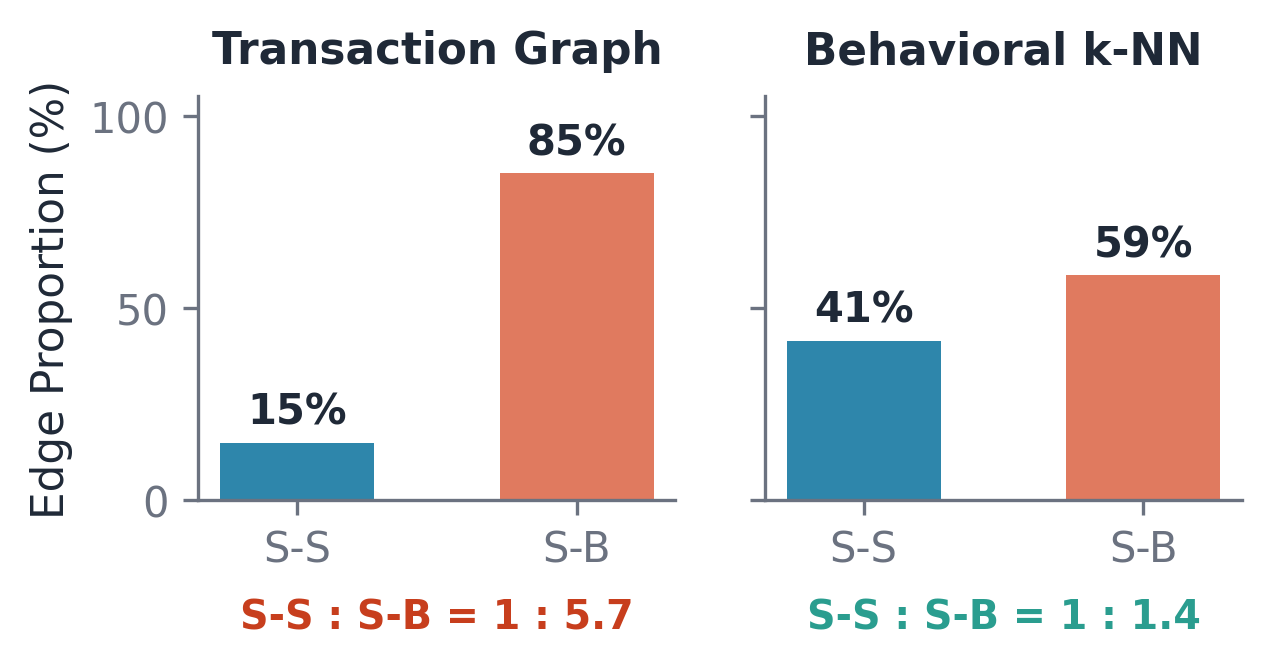
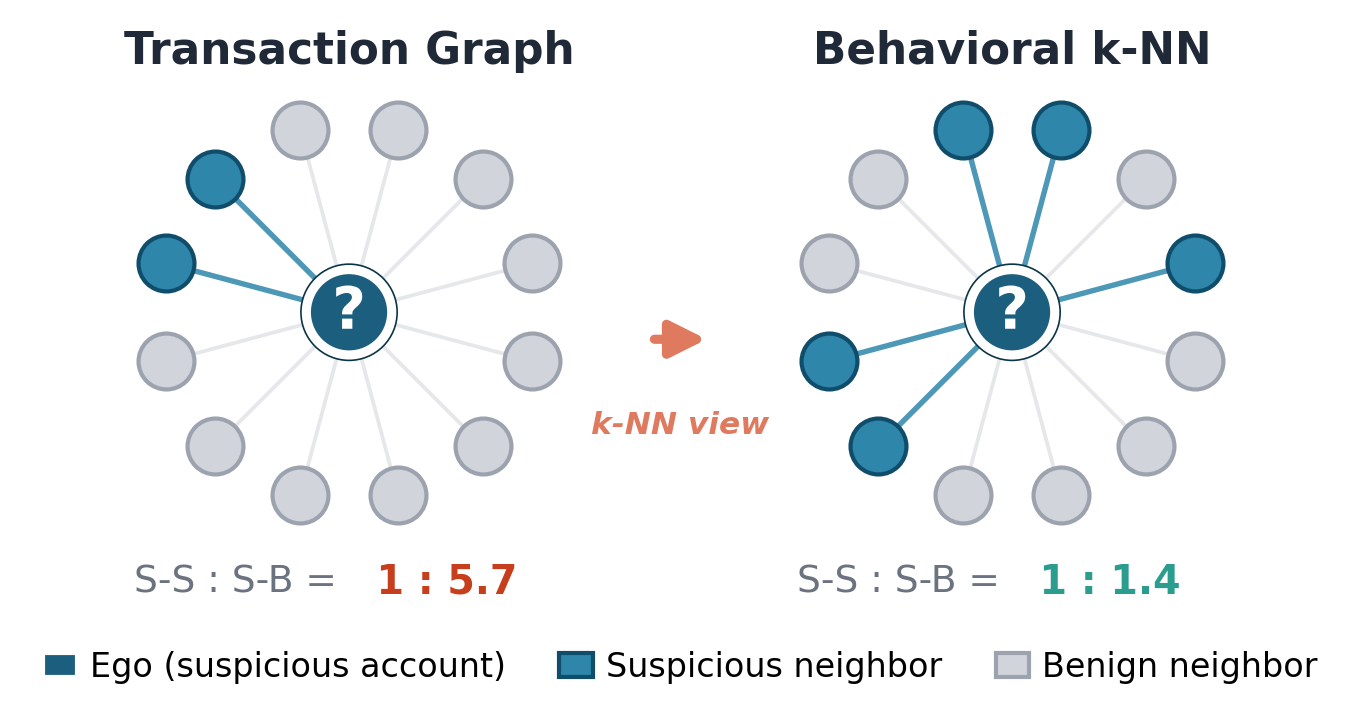
Figure 1: refined ego-network design (Variant C, modernized)
Switch from bar chart to ego-network visualization (most pedagogical for
homophily). Refinements over original Variant C:
- Center 'ego' suspicious node: dark teal (#1B5E7D) with white halo, '?'
  question mark inside (suggests classification target)
- Suspicious neighbor: medium teal (#2E86AB), darker outline
- Benign neighbor: neutral light gray (#D1D5DB), faded outline
- Signal edge (S-S): bold teal, 1.3pt — visually prominent
- Noise edge (S-B): very light gray, 0.9pt — visually faded
- Removed letter labels inside nodes (color + legend instead)
- Legend at bottom (3 items, single row)
- Refined transformation arrow (coral #E07A5F) with 'k-NN view' label
- Color-coded ratio: red 1:5.7 (problem), green 1:1.4 (restored)
- Caption updated for ego-network framing (S-S/S-B explained inline)

Changed region(s): [[0.0, 0.0299, 0.9819, 0.8383], [0.0307, 0.8982, 0.9819, 0.9581]]

diff --git a/visualize/gen_paper_figures.py b/visualize/gen_paper_figures.py
@@ -272,60 +272,116 @@ def fig5_setting_comparison():
 
 
 def fig_intro_homophily():
-    """Intro Figure: S-S/S-B ratio comparison — Transaction vs Behavioral k-NN.
+    """Intro Figure: ego-network homophily contrast (refined Variant C).
 
-    Side-by-side bar charts (original layout) with refined paper-friendly palette.
-    Self-explanatory for readers unfamiliar with homophily.
+    A central suspicious account (ego) and its 12 neighbors are visualized
+    for two graph types. Color encodes neighbor class (suspicious vs benign).
+    Edge opacity reflects signal strength (S-S edges = strong, S-B = faded).
     """
-    categories = ['S-S', 'S-B']
-    trans_vals = [257384, 1468962]   # Transaction graph (S-S, S-B)
-    knn_vals   = [61987,  87555]     # Behavioral k-NN
+    import matplotlib.patches as mpatches
+    import matplotlib.patheffects as pe
 
-    trans_pct = [v / sum(trans_vals) * 100 for v in trans_vals]
-    knn_pct   = [v / sum(knn_vals)   * 100 for v in knn_vals]
+    # Refined paper-friendly palette
+    C_EGO       = '#1B5E7D'  # dark teal: ego (suspicious) node
+    C_SUSP      = '#2E86AB'  # medium teal: suspicious neighbor (signal)
+    C_BENIGN    = '#D1D5DB'  # neutral light gray: benign neighbor (noise)
+    C_EDGE_S    = '#2E86AB'  # signal edge: medium teal (visible)
+    C_EDGE_B    = '#E5E7EB'  # noise edge: very light gray (faded)
+    C_TEXT      = '#1F2937'
+    C_SUB       = '#6B7280'
+    C_HIGHL     = '#C73E1D'  # warm red: low-homophily state
+    C_GREEN     = '#2A9D8F'  # teal-green: restored state
+    C_ARROW     = '#E07A5F'  # warm coral: transformation arrow
 
-    # Refined palette: dark teal for S-S (signal), warm orange-red for S-B (noise)
-    C_SS    = '#2E86AB'   # teal-blue
-    C_SB    = '#E07A5F'   # warm coral (matches S-B = "spread to benign", problematic)
-    C_TEXT  = '#1F2937'
-    C_SUB   = '#6B7280'
-    C_HIGHL = '#C73E1D'
-    C_GREEN = '#2A9D8F'
+    np.random.seed(7)
 
-    fig, axes = plt.subplots(1, 2, figsize=(4.4, 2.6), sharey=True)
-    bar_width = 0.55
+    fig, axes = plt.subplots(1, 2, figsize=(4.6, 2.4))
+    fig.patch.set_facecolor('white')
 
-    for ax, pcts, title, ratio, rcolor in [
-        (axes[0], trans_pct, 'Transaction Graph', '1 : 5.7', C_HIGHL),
-        (axes[1], knn_pct,   'Behavioral k-NN',   '1 : 1.4', C_GREEN),
-    ]:
-        bars = ax.bar(categories, pcts, color=[C_SS, C_SB], width=bar_width,
-                      edgecolor='white', linewidth=0)
-        ax.set_title(title, fontsize=10.5, fontweight='bold', pad=8, color=C_TEXT)
-        ax.set_ylim(0, 105)
-        ax.tick_params(axis='both', labelsize=10, colors=C_SUB)
+    n_neighbors = 12
+    radius = 1.05
 
-        for bar, pct in zip(bars, pcts):
-            ax.text(bar.get_x() + bar.get_width()/2, bar.get_height() + 2.5,
-                    f'{pct:.0f}%', ha='center', va='bottom',
-                    fontsize=10, fontweight='bold', color=C_TEXT)
+    panels = [
+        (axes[0], 0.15, 'Transaction Graph', '1 : 5.7', C_HIGHL),
+        (axes[1], 0.41, 'Behavioral k-NN',   '1 : 1.4', C_GREEN),
+    ]
 
-        # Ratio annotation (color-coded by state)
-        ax.text(0.5, -0.32, f'S-S : S-B = {ratio}', transform=ax.transAxes,
-                ha='center', fontsize=9.5, fontweight='bold', color=rcolor)
+    for ax, ss_ratio, title, ratio, rcolor in panels:
+        ax.set_facecolor('white')
+        ax.set_xlim(-1.55, 1.55)
+        ax.set_ylim(-1.65, 1.55)
+        ax.set_aspect('equal')
+        ax.axis('off')
 
-        # Cleaner spines
-        ax.spines['top'].set_visible(False)
-        ax.spines['right'].set_visible(False)
-        ax.spines['left'].set_color(C_SUB)
-        ax.spines['bottom'].set_color(C_SUB)
+        n_susp = round(n_neighbors * ss_ratio)
+        is_susp = [True]*n_susp + [False]*(n_neighbors - n_susp)
+        np.random.shuffle(is_susp)
 
-    axes[0].set_ylabel('Edge Proportion (%)', fontsize=10.5, color=C_TEXT)
+        # Slight angle offset so neighbors aren't on cardinal axes
+        angles = np.linspace(0, 2*np.pi, n_neighbors, endpoint=False) + np.pi/12
 
-    plt.tight_layout(w_pad=1.5)
+        # Draw edges first (lower z-order)
+        for angle, susp in zip(angles, is_susp):
+            x, y = radius * np.cos(angle), radius * np.sin(angle)
+            if susp:
+                ax.plot([0, x], [0, y], color=C_EDGE_S,
+                        linewidth=1.3, alpha=0.85, zorder=1, solid_capstyle='round')
+            else:
+                ax.plot([0, x], [0, y], color=C_EDGE_B,
+                        linewidth=0.9, alpha=1.0, zorder=1, solid_capstyle='round')
+
+        # Draw neighbor nodes
+        for angle, susp in zip(angles, is_susp):
+            x, y = radius * np.cos(angle), radius * np.sin(angle)
+            color = C_SUSP if susp else C_BENIGN
+            edge_color = '#0F4D6B' if susp else '#9CA3AF'
+            ax.scatter(x, y, s=180, c=color, edgecolors=edge_color,
+                       linewidths=1.0, zorder=4)
+
+        # Draw ego (center) — slightly larger, distinct dark teal with ring
+        ax.scatter(0, 0, s=420, c=C_EGO, edgecolors='white', linewidths=2.2, zorder=5,
+                   path_effects=[pe.withStroke(linewidth=3.0, foreground='#0A3548')])
+        ax.text(0, 0, '?', ha='center', va='center', fontsize=14, fontweight='bold',
+                color='white', zorder=6,
+                path_effects=[pe.withStroke(linewidth=1.0, foreground=C_EGO)])
+
+        # Title (top)
+        ax.text(0, 1.45, title, ha='center', va='center',
+                fontsize=10.5, fontweight='bold', color=C_TEXT)
+
+        # Ratio annotation (bottom, color-coded)
+        ax.text(0, -1.50, f'S-S : S-B = ', ha='right', va='center',
+                fontsize=9, color=C_SUB)
+        ax.text(0, -1.50, f'  {ratio}', ha='left', va='center',
+                fontsize=9.5, fontweight='bold', color=rcolor)
+
+    # Transformation arrow between panels
+    fig.patches.append(mpatches.FancyArrowPatch(
+        (0.475, 0.50), (0.525, 0.50), transform=fig.transFigure,
+        arrowstyle='-|>', mutation_scale=18, color=C_ARROW, linewidth=2.2,
+        zorder=10))
+    fig.text(0.5, 0.40, 'k-NN view',
+             ha='center', va='top', fontsize=7.5, color=C_ARROW,
+             fontstyle='italic', fontweight='bold')
+
+    # Compact legend at bottom
+    legend_elements = [
+        mpatches.Patch(facecolor=C_EGO,    edgecolor='white',
+                       label='Ego (suspicious account)'),
+        mpatches.Patch(facecolor=C_SUSP,   edgecolor='#0F4D6B',
+                       label='Suspicious neighbor'),
+        mpatches.Patch(facecolor=C_BENIGN, edgecolor='#9CA3AF',
+                       label='Benign neighbor'),
+    ]
+    fig.legend(handles=legend_elements, loc='lower center',
+               bbox_to_anchor=(0.5, -0.02), ncol=3, frameon=False,
+               fontsize=8, handlelength=1.0, handletextpad=0.4,
+               columnspacing=1.6)
+
+    plt.tight_layout(rect=[0, 0.05, 1, 1])
     path = os.path.join(OUT_DIR, 'fig_intro_homophily.pdf')
-    plt.savefig(path, bbox_inches='tight', dpi=300)
-    plt.savefig(path.replace('.pdf', '.png'), bbox_inches='tight', dpi=300)
+    plt.savefig(path, bbox_inches='tight', dpi=300, facecolor='white')
+    plt.savefig(path.replace('.pdf', '.png'), bbox_inches='tight', dpi=300, facecolor='white')
     plt.close()
     print(f'Saved: {path}')
 

diff --git a/_paper/main.tex b/_paper/main.tex
@@ -92,7 +92,7 @@ KFTC HOFINET, AMLworld, AMLNet 세 데이터셋에서의 실험을 통해 행동
 \begin{figure}[t!]
     \centering
     \includegraphics[width=0.95\columnwidth]{figures/fig_intro_homophily.pdf}
-    \caption{Edge proportion of suspicious accounts on HOFINET. S-S = suspicious$\to$suspicious, S-B = suspicious$\to$benign. In the transaction graph, only 15\% of a suspicious account's edges connect to other suspicious accounts (S-S/S-B = 1:5.7), making neighborhood aggregation unreliable. The behavioral k-NN view ($k{=}10$) raises the S-S share to 41\% (1:1.4), enabling effective signal propagation.}
+    \caption{Ego-network of a suspicious account on HOFINET (12 illustrative neighbors). In the transaction graph, only $\sim$15\% of neighbors are also suspicious (S-S : S-B $=$ 1:5.7), violating the GNN homophily assumption. The behavioral k-NN view ($k{=}10$) restores the S-S share to $\sim$41\% (1:1.4), so that neighborhood aggregation now propagates signal rather than benign noise.}
     \label{fig:intro_homophily}
 \end{figure}
 